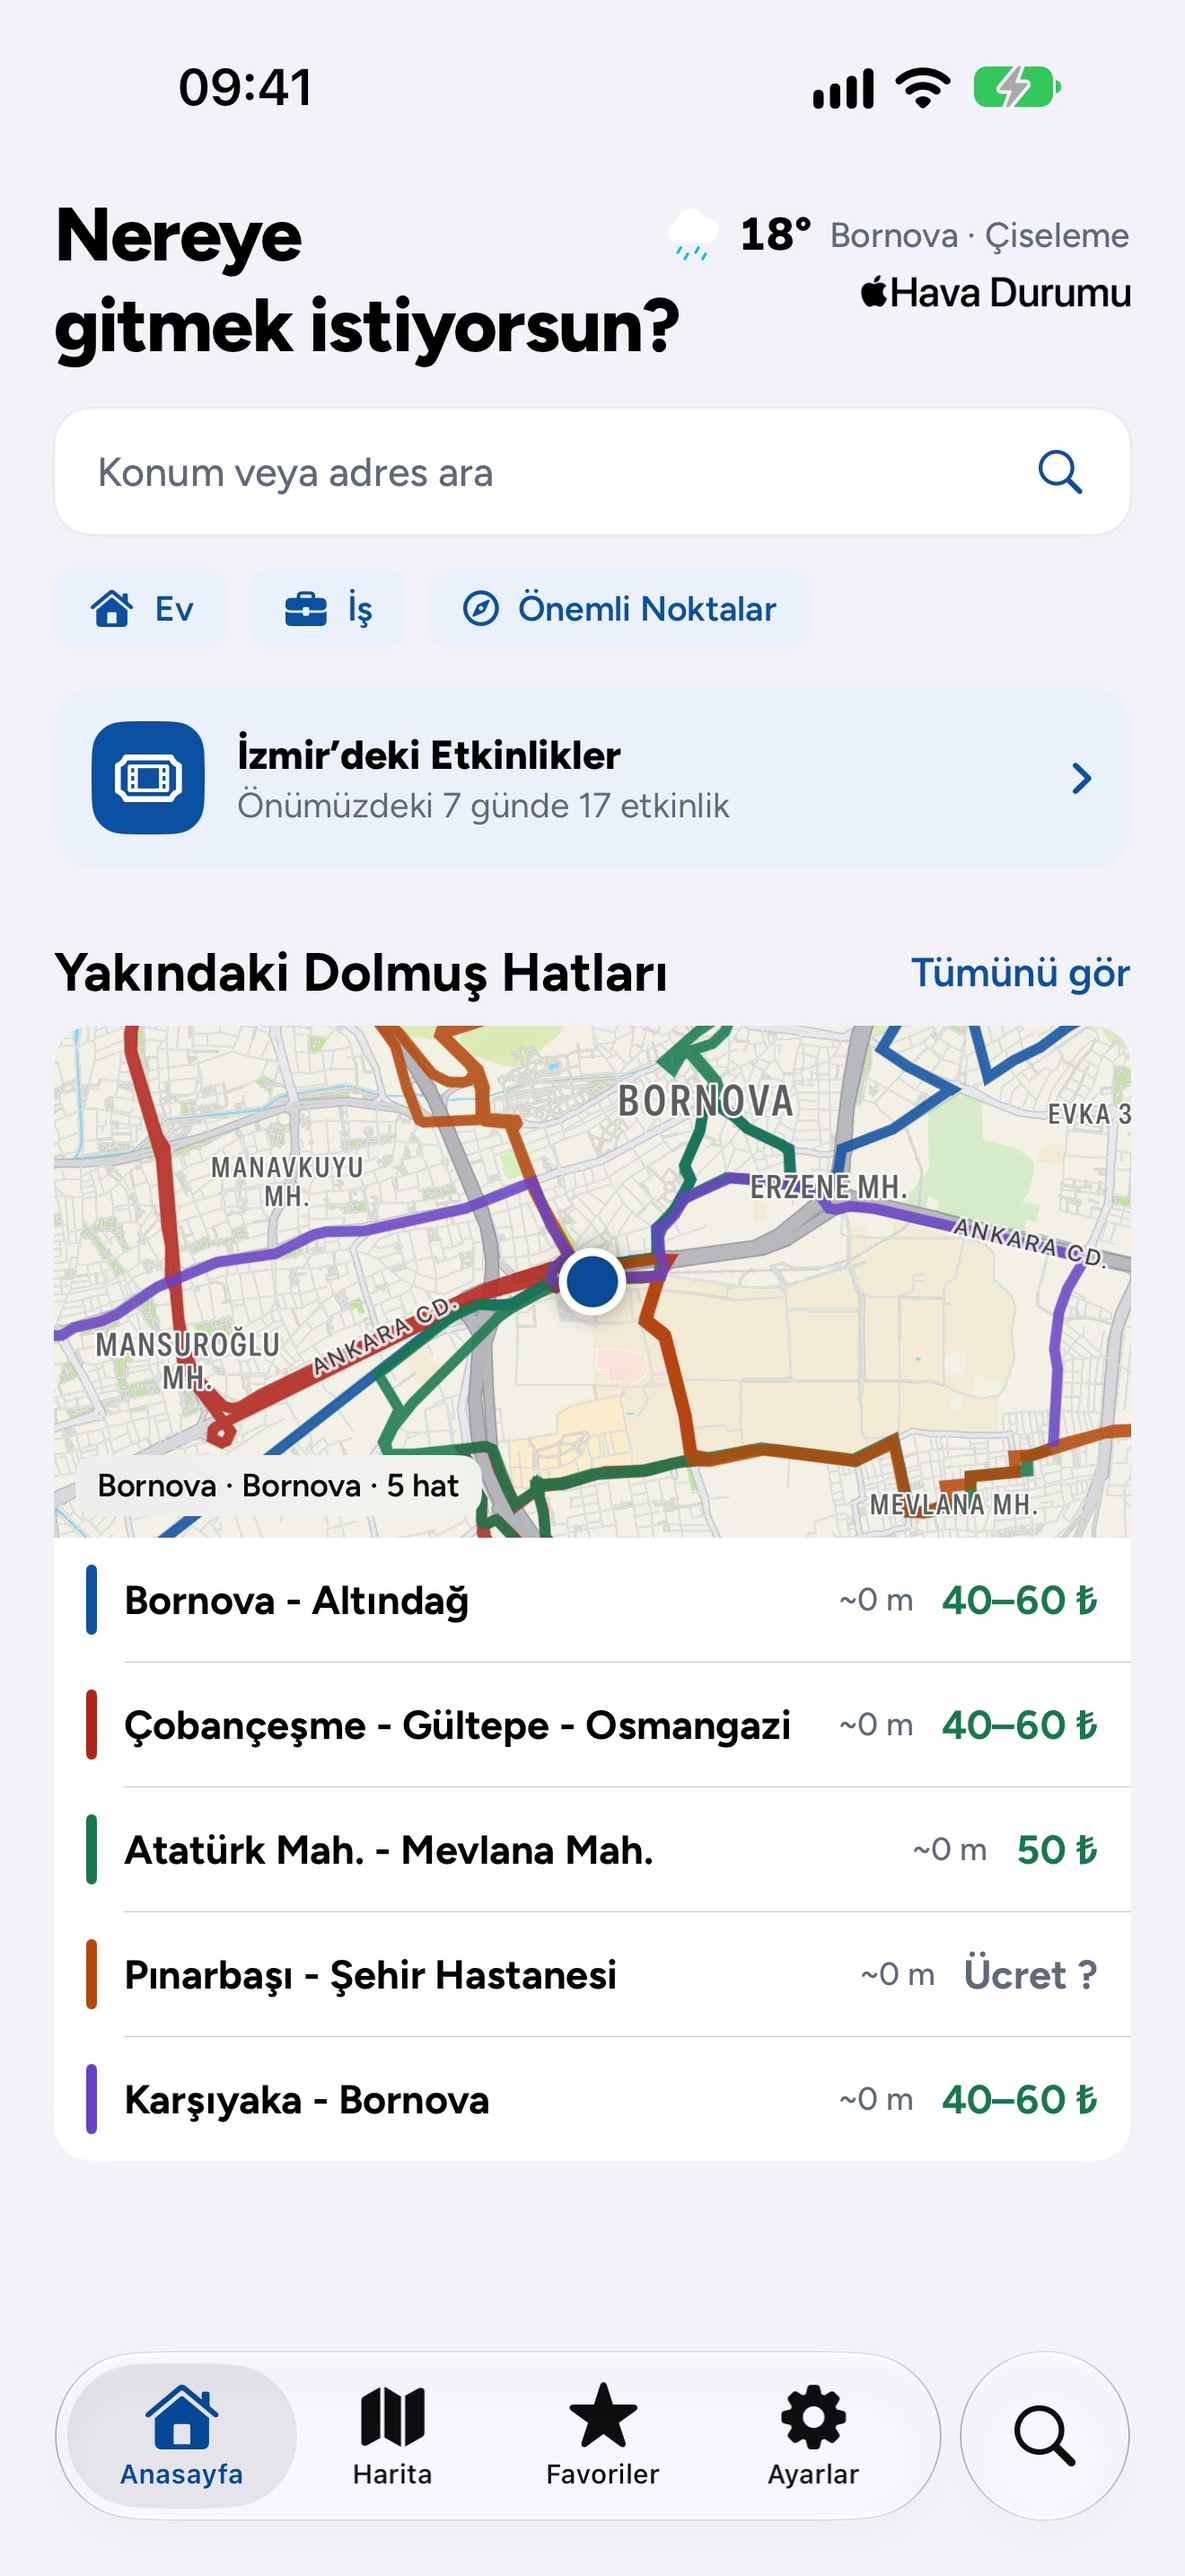
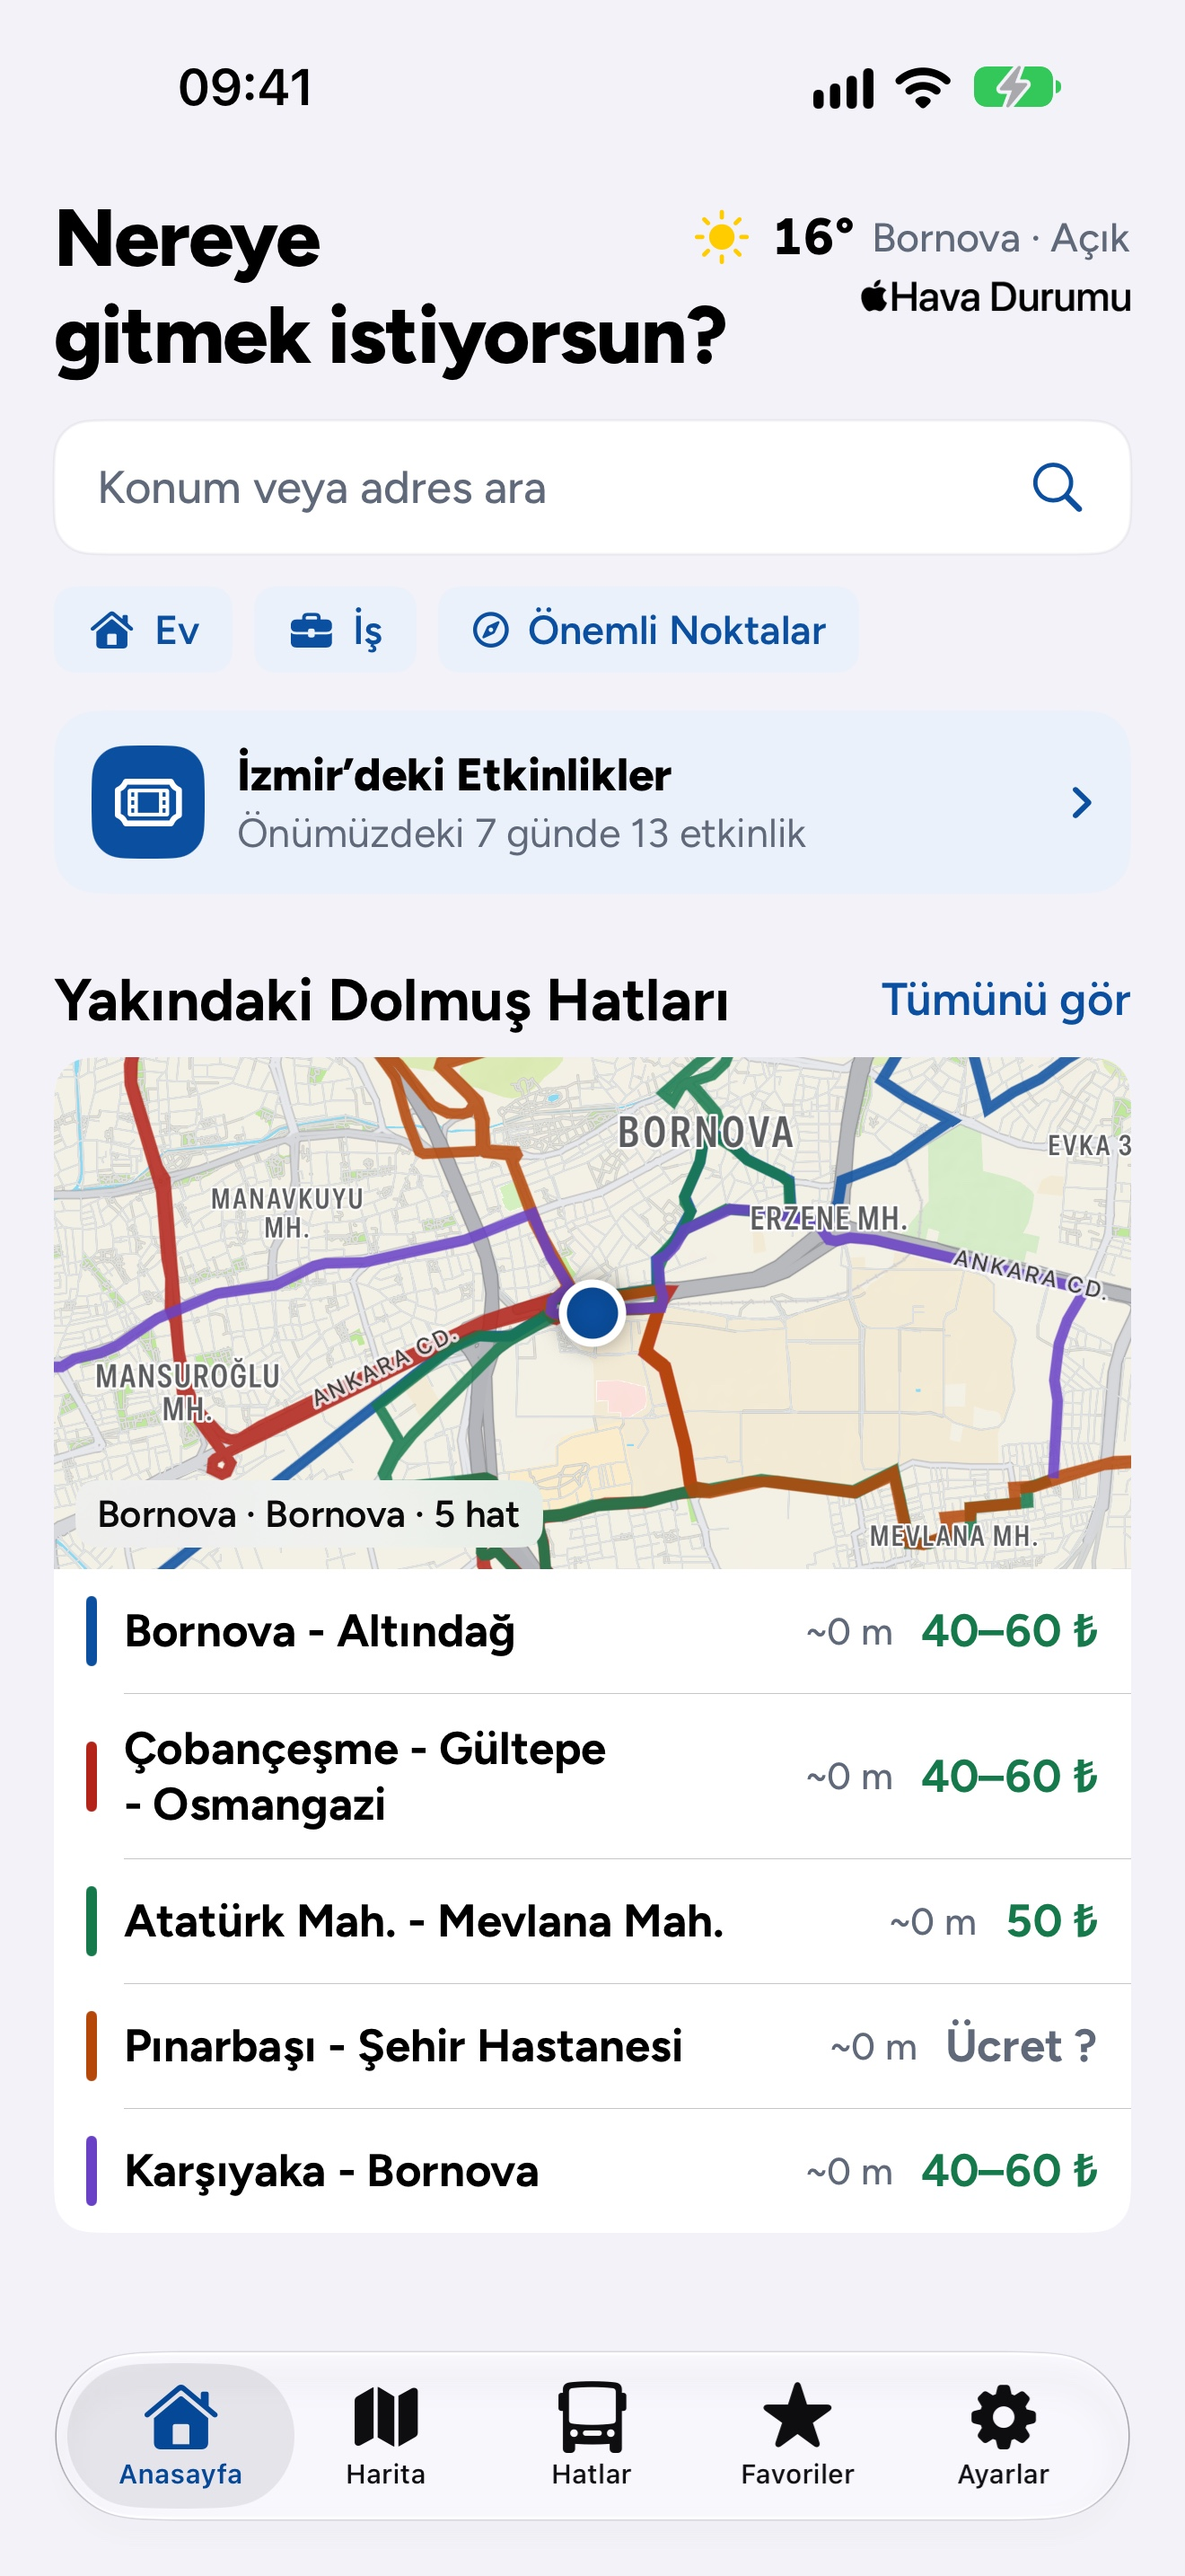
App Store screenshots for the new tab bar and text size
The tester feedback round changed the tab bar (a labelled Hatlar tab) and
made text 2 pt larger, so the 6.9-inch screenshots were retaken on the
same simulator (Turkish, 9:41, real data and WeatherKit) without ads:

- New DEBUG-only -noAds launch argument turns AdsController off, like UI
  test mode, so screenshots show real data without test banners.
- Six screenshots replaced; the lock screen one is kept (the Live
  Activity card did not change and the old shot has no "Carrier" label).
- The options list is now opaque with a clear recommended option, so it
  joins as the eighth screenshot (08-secenekler).
- metadata-tr.md and PLAN.md updated (SF.7b).

diff --git a/IzmirDolmus/Support/AppEnvironment.swift b/IzmirDolmus/Support/AppEnvironment.swift
@@ -14,8 +14,11 @@ enum AppEnvironment {
     #if DEBUG
     static let isUITesting = ProcessInfo.processInfo.arguments.contains("-uiTesting")
     private static let keepsUITestData = ProcessInfo.processInfo.arguments.contains("-uiTestingKeepData")
+    /// Reklamsız açılış (`-noAds`): mağaza ekran görüntüleri gerçek veriyle ama banner'sız.
+    static let isAdFree = ProcessInfo.processInfo.arguments.contains("-noAds")
     #else
     static let isUITesting = false
+    static let isAdFree = false
     #endif
 
     static let defaults: UserDefaults = {

diff --git a/IzmirDolmus/Reklam/AdsController.swift b/IzmirDolmus/Reklam/AdsController.swift
@@ -46,7 +46,7 @@ final class AdsController: NSObject {
 
     private var isShowingFullScreen = false
 
-    init(isEnabled: Bool = !AppEnvironment.isUITesting, defaults: UserDefaults = AppEnvironment.defaults) {
+    init(isEnabled: Bool = !AppEnvironment.isUITesting && !AppEnvironment.isAdFree, defaults: UserDefaults = AppEnvironment.defaults) {
         self.isEnabled = isEnabled
         self.defaults = defaults
         policy = AdPolicy(

diff --git a/PLAN.md b/PLAN.md
@@ -1104,10 +1104,11 @@ TestFlight'taki sürümü deneyen kullanıcının yedi maddesi ve yapılanlar:
     Hatlar araması, Etkinlikler. Bilerek dışarıda kalanlar: seçenekler listesi (yarı saydam
     sheet'te mavi şerit) ve hat detayı ("Yukarıda Belirtilen Sınırlar Arası Bindi" çipi;
     396 hat grubunun 300'ünde var).
-  - [ ] SF.7b Ekran görüntülerini yenileme: test kullanıcısının geri bildiriminden sonra
-    (2026-11-05) tab bar (adı yazılı Hatlar sekmesi) ve yazı boyutu değişti; görüntüler
-    incelemeye göndermeden önce yeniden alınmalı. Debug'da test banner'ı göründüğü için
-    görüntü çekiminde reklamı kapatan bir yol gerekiyor.
+  - [x] SF.7b Ekran görüntülerini yenileme (2026-11-05): test kullanıcısının geri
+    bildiriminden sonra tab bar ve yazı boyutu değişmişti. Aynı simülatörde, reklamsız
+    (`-noAds`, yalnızca Debug) yeniden çekildi; altısı yenilendi, kilit ekranı aynı kaldı
+    (Live Activity kartı değişmedi, eskisinde "Carrier" yazısı yok). Seçenekler listesi
+    artık opak ve önerilen belirgin olduğu için sekizinci görüntü oldu (`08-secenekler`).
   - [x] SF.8 Team ve imzalama (2026-11-03): üyelik onaylandı, takım `C96G54LS5G` (Mert
     Ozturk, bireysel) üç hedefte; kullanıcı WeatherKit'i App Services'ta açtı ve telefona
     (iPhone 15) Xcode'dan derleyince cihaz kaydoldu, profiller oluştu (uygulamada

diff --git a/AppStore/metadata-tr.md b/AppStore/metadata-tr.md
@@ -72,8 +72,9 @@ dolmuş,minibüs,izmir,ulaşım,hat,güzergah,ücret,yol tarifi,bornova,buca,kar
 
 ## Ekran görüntüleri
 
-iPhone 6,9 inç (1320×2868): `screenshots-6.9/` içindeki yedi dosyayı numara sırasıyla
+iPhone 6,9 inç (1320×2868): `screenshots-6.9/` içindeki sekiz dosyayı numara sırasıyla
 yükle. İlk üçü sayfada öne çıkıyor: Anasayfa, haritada tarif, kilit ekranında yolculuk.
+Görüntülerde reklam yok (Debug derlemesi `-noAds` argümanıyla çekildi).
 
 ## İnceleme notu (App Review Information › Notes)
 
